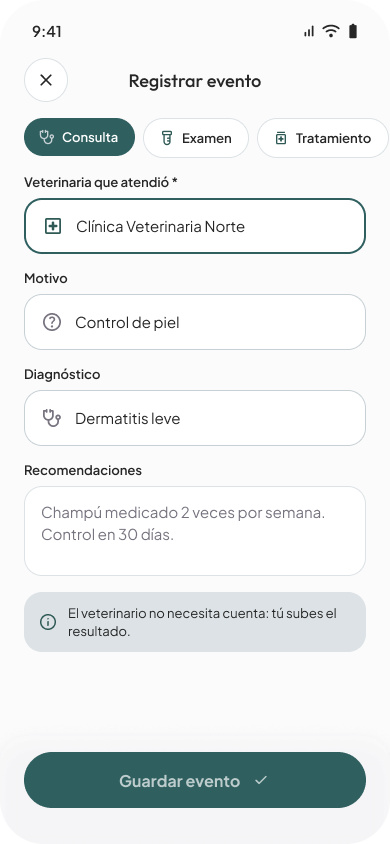
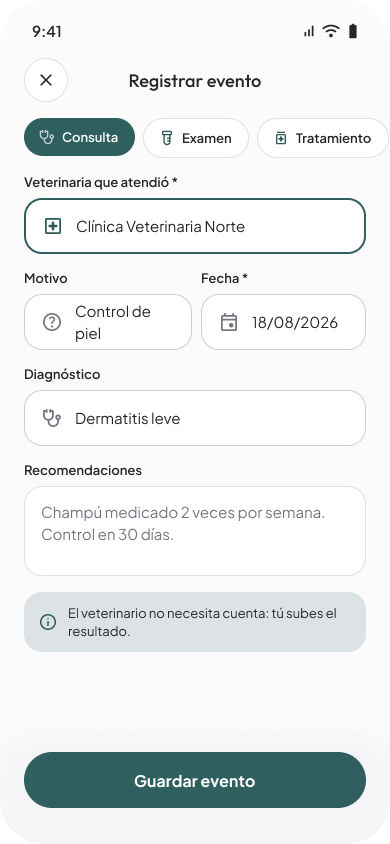
Agrega plantilla y specs de E y A; elimina la suscripción
- specs/_plantilla.md y specs de E · Registrar evento (flujo core) y A · Acceso y cuenta.
- Correcciones de Figma en E2–E7, E9–E11.
- Se elimina la suscripción: borra A11, A18–A21, M4, M10, M11 y M12 y actualiza CLAUDE.md.

diff --git a/specs/E · Registrar evento/spec.md b/specs/E · Registrar evento/spec.md
@@ -1,0 +1,185 @@
+# E · Registrar evento
+
+## Quién y para qué
+
+El dueño de la mascota (Valentina, en la persona de referencia) registra algo que le pasó a su mascota: una vacuna, una desparasitación, una consulta, un examen, un tratamiento, el peso, un cambio de alimentación o de comportamiento, o cualquier otro evento.
+
+Es el flujo core de Balto: cada evento que entra aquí alimenta la línea de tiempo (D), el panel de salud (F), los medicamentos (G), las alertas (J) y lo que se comparte (L). La promesa del producto es que **registrar un evento toma menos de un minuto**, así que el flujo tiene un solo formulario por tipo, pocos campos obligatorios y un soporte opcional.
+
+El veterinario no participa: no necesita cuenta. Es el dueño quien registra el resultado de sus consultas.
+
+## Pantallas
+
+| ID | Nombre | Qué muestra |
+|---|---|---|
+| E1 | Selector de tipo de evento | Foto y nombre de la mascota activa, "¿Qué quieres registrar hoy?" y una cuadrícula de 9 tipos: Vacuna, Desparasitación, Consulta, Examen, Tratamiento, Peso, Alimentación, Comportamiento, Otro. Botón X para cerrar. |
+| E2 | Registrar vacuna | Formulario de vacuna con selector de mascota en el encabezado, chips de tipo, bloque de soporte (Cámara / Galería / PDF) e interruptor "Recordarme el refuerzo". |
+| E3 | Consulta veterinaria | Formulario de consulta y nota "El veterinario no necesita cuenta: tú subes el resultado." |
+| E4 | Examen o laboratorio | Formulario de examen con el soporte cargado (hemograma.pdf). |
+| E5 | Tratamiento o medicación | Formulario de tratamiento, fila "Crear horarios de toma" y área "Foto de la fórmula (opcional)". |
+| E6 | Peso | Campo de peso, fecha de la medición, gráfica "Evolución del peso · 6 meses" y comparación con el mes anterior. |
+| E7 | Alimentación o comportamiento | Selector segmentado Alimentación / Comportamiento, "¿Qué cambió?", fecha y área de foto. |
+| E8 | Adjuntar soporte | Hoja inferior con: Tomar foto (carnet, fórmula o examen), Elegir de la galería, Subir PDF (hasta 10 MB) y Cancelar. |
+| E9 | Evento guardado | Confirmación, texto de dónde quedó el evento, aviso del recordatorio si lo hay, tarjeta del evento y botones "Registrar otro" y "Listo". |
+| E10 | Registrar desparasitación | Formulario de desparasitación, interruptor "Recordarme la próxima dosis" y nota sobre la frecuencia. |
+| E11 | Registrar otro evento | Formulario libre: qué pasó, fecha, lugar, detalle y área de foto. |
+| E12 | Revisar la foto | Vista previa de la foto tomada, con Recortar, Girar, Repetir y los botones "Usar esta foto" / "Tomar otra". |
+| E13 | Archivo muy pesado | Error de archivo de más de 10 MB, con alternativas para adjuntar y la opción "Guardar sin soporte". |
+
+Pantalla reutilizada de otro flujo: **B8 · Salir sin guardar** (diálogo de descarte; ver Estados).
+
+### Campos por tipo
+
+`*` = obligatorio. Las fechas toman el día de hoy por defecto.
+
+| Tipo | Pantalla | Campos | Soporte | Extra |
+|---|---|---|---|---|
+| Vacuna | E2 | Vacuna aplicada *, Fecha aplicada *, Próximo refuerzo | Foto del carnet o PDF | Recordarme el refuerzo |
+| Desparasitación | E10 | Producto *, Fecha *, Vía, Próxima dosis | No lleva | Recordarme la próxima dosis; nota "Interna cada 3 meses, externa cada mes. Confirma con tu veterinario." |
+| Consulta | E3 | Veterinaria que atendió *, Motivo, Fecha *, Diagnóstico, Recomendaciones | Foto o PDF (ajuste pendiente en Figma) | Nota de que el veterinario no necesita cuenta |
+| Examen | E4 | Tipo de examen *, Laboratorio, Fecha *, Resultado principal | Foto o PDF | — |
+| Tratamiento | E5 | Medicamento *, Dosis, Vía, Frecuencia, Duración | Foto de la fórmula (opcional) | Crear horarios de toma (abre G4) |
+| Peso | E6 | Peso (kg) *, Fecha de la medición | No lleva | Gráfica de evolución y comparación con el mes anterior |
+| Alimentación | E7 | ¿Qué cambió? *, Fecha | Foto (opcional) | — |
+| Comportamiento | E7 | ¿Qué cambió? *, Fecha | Foto (opcional) | — |
+| Otro | E11 | ¿Qué pasó? *, Fecha *, Lugar, Detalle | Foto (opcional) | — |
+
+En los tipos que lo aceptan, el soporte siempre es opcional. Por ahora no se aceptan videos.
+
+## Paso a paso
+
+Caso: Valentina registra la vacuna antirrábica que le pusieron a Luna el 12/09/2026, con foto del carnet y recordatorio del refuerzo.
+
+1. **Entrada.** En Inicio, con Luna seleccionada, Valentina toca el botón **+** de la barra de navegación inferior. Se abre **E1** con la foto y el nombre de Luna.
+2. **Tipo.** Toca **Vacuna**. Se abre **E2** con el chip "Vacuna" activo y el selector de mascota mostrando "Luna" en el encabezado.
+3. **Campos.** Escribe "Antirrábica · Nobivac Rabies" en *Vacuna aplicada*, deja *Fecha aplicada* en 12/09/2026 y pone *Próximo refuerzo* en 12/09/2027. Mientras falten campos obligatorios, el botón "Guardar evento" está deshabilitado.
+4. **Soporte.** Toca **Cámara** en el bloque de soporte. Se abre la cámara del dispositivo; si el navegador no tiene permiso, se muestra **O6 · Permiso de cámara**. Las opciones *Galería* y *PDF* del bloque, y cualquier área de soporte de los otros tipos, abren la hoja **E8**, que ofrece las mismas tres opciones.
+5. **Revisión de la foto.** Después de tomar la foto se abre **E12**. Valentina puede recortar, girar o repetir. Toca **Usar esta foto** y vuelve a E2 con la tarjeta "carnet_luna.jpg · Foto · 1,2 MB · Cargado". La X de la tarjeta quita el soporte.
+6. **Recordatorio.** Como hay fecha de *Próximo refuerzo*, el interruptor "Recordarme el refuerzo" está disponible. Lo deja encendido; debajo se lee "7 días antes · 5 sep 2027". La anticipación sale de M3 (ver Qué pasa después).
+7. **Guardar.** Toca **Guardar evento**. Se abre **E9** con:
+   - "La vacuna antirrábica quedó en la línea de tiempo de Luna."
+   - "Te avisaremos 7 días antes del refuerzo (5 sep 2027)."
+   - La tarjeta del evento: Vacuna antirrábica · Refuerzo anual · Vet. Norte · 12 SEP 2026 · 1 soporte.
+8. **Salida.** Toca **Listo** y sale del flujo; si toca **Registrar otro**, vuelve a E1.
+
+### Variantes del paso a paso
+
+- **Cambiar de tipo dentro del formulario.** Los chips de arriba (E2–E6, E10, E11) cambian el formulario sin volver a E1. El chip del tipo actual aparece primero y activo. En E7, el selector segmentado cambia entre Alimentación y Comportamiento.
+- **Tratamiento (E5).** La fila "Crear horarios de toma" abre **G4 · Definir horarios de toma**. Al confirmar, vuelve a E5 con los horarios en la fila (por ejemplo, "08:00 · 20:00").
+- **Peso (E6).** Mientras escribe el peso, el dueño ve la gráfica de los últimos 6 meses (la última barra es la medición nueva) y la diferencia con el mes anterior ("+0,3 kg frente al mes anterior").
+- **Galería.** "Elegir de la galería" en E8 abre la galería del dispositivo; si no hay permiso, se muestra **O7 · Permiso de fotos**.
+- **PDF.** "Subir PDF" en E8 abre el selector de archivos. El archivo queda en el formulario como tarjeta con nombre, tipo y tamaño, igual que en E4.
+
+## Estados
+
+| Estado | Dónde | Qué se ve / qué pasa |
+|---|---|---|
+| Formulario incompleto | E2–E7, E10, E11 | "Guardar evento" deshabilitado hasta que estén todos los campos `*`. |
+| Formulario completo | E2–E7, E10, E11 | "Guardar evento" habilitado. |
+| Soporte cargado | E2, E4 (y los demás tipos con soporte) | Tarjeta con miniatura o ícono, nombre, tipo, tamaño y "Cargado", más una X para quitarlo. |
+| Archivo de más de 10 MB | E13 | "El archivo pesa más de 10 MB", con el nombre y el peso del archivo y el texto "Aceptamos JPG, PNG y PDF de hasta 10 MB." Opciones: *Tomar una foto del documento* (lleva a la cámara y E12), *Elegir otro archivo* (galería o archivos) y *Guardar sin soporte*. La flecha atrás vuelve al formulario. |
+| Recordatorio disponible | E2, E10 | Interruptor activo cuando *Próximo refuerzo* / *Próxima dosis* tiene fecha; muestra "N días antes · fecha del aviso". |
+| Recordatorio no disponible | E2, E10 | Sin fecha de próximo refuerzo o dosis, el interruptor está apagado y no se puede activar. |
+| Avisos apagados en ajustes | E2, E10 | Si "Vacunas y desparasitaciones" está apagado en M3, el interruptor aparece apagado con la nota "Activa los avisos en Ajustes › Notificaciones". *(Falta en Figma.)* |
+| Salir con datos | Formularios | La X abre el diálogo de **B8** con el texto adaptado: "¿Salir sin guardar?" · "Perderás los datos que escribiste de este evento." · [Seguir editando] · [Salir y descartar]. |
+| Salir sin datos | Formularios y E1 | La X cierra sin preguntar y vuelve a la pantalla desde la que se abrió el flujo. |
+| Cancelar adjunto | E8 | "Cancelar" cierra la hoja y vuelve al formulario sin cambios. |
+| Evento guardado | E9 | Confirmación. El aviso del recordatorio solo aparece si se activó. |
+| Sin permiso de cámara o fotos | — | **O6** / **O7** (flujo O). |
+| Sin conexión al guardar | — | **O3 · Guardado pendiente** (flujo O). |
+| Error al guardar | — | **O8 · No se pudo guardar** (flujo O). |
+
+## Qué pasa después
+
+Desde **E9**:
+- **Registrar otro** vuelve a E1, con la misma mascota.
+- **Listo** sale del flujo (destino por definir, ver Preguntas abiertas).
+- La **tarjeta del evento** abre **D4 · Detalle de evento**.
+
+Efectos de guardar un evento en el resto de la app:
+
+| Evento | Dónde aparece |
+|---|---|
+| Todos | **D2 · Línea de tiempo** de la mascota, con su soporte (ver o descargar en D5). También en lo que se comparte desde L. |
+| Vacuna, desparasitación | **F2 · Carnet de vacunas**. En Inicio, el estado de vacunas y el "Próximo a vencer". |
+| Recordatorio activado | Una alerta pendiente en **J1 · Centro de alertas**. El día del aviso (fecha − anticipación de M3) llega la notificación **J6**. |
+| Examen | **F3 · Exámenes y tratamientos**. |
+| Tratamiento | **F3** y tratamiento activo en **G1 · Listado de medicamentos**. Si tiene horarios, genera los recordatorios de toma (**G5**). |
+| Peso | **F4 · Evolución del peso**, el peso de Inicio y la vista rápida (**D1**). |
+| Alimentación, comportamiento | Línea de tiempo (D2). |
+
+La anticipación de los recordatorios no se elige en este flujo: se toma de **M3 · Configurar notificaciones** ("Vacunas y desparasitaciones · 7 días antes").
+
+## Datos que usa
+
+**Lee**
+- **Mascota activa:** id, nombre, foto. Sale del selector de Inicio y de E1, y se puede cambiar en el encabezado de E2.
+- **Pesos anteriores de la mascota:** para la gráfica de E6 y la comparación con el mes anterior.
+- **Preferencias de notificación del dueño (M3):** si los avisos de vacunas y desparasitaciones están encendidos y con cuántos días de anticipación.
+
+**Guarda**
+- **Evento:** id, mascota, tipo (vacuna | desparasitación | consulta | examen | tratamiento | peso | alimentación | comportamiento | otro), fecha, fecha de creación, campos propios del tipo:
+  - vacuna: nombre de la vacuna, fecha del próximo refuerzo
+  - desparasitación: producto, vía, fecha de la próxima dosis
+  - consulta: veterinaria (texto), motivo, diagnóstico, recomendaciones
+  - examen: tipo de examen, laboratorio, resultado principal
+  - tratamiento: medicamento, dosis, vía, frecuencia, duración
+  - peso: valor en kg
+  - alimentación / comportamiento: qué cambió
+  - otro: título, lugar, detalle
+- **Soporte** (0 o más por evento): evento, archivo en almacenamiento (Supabase Storage), nombre, tipo (JPG | PNG | PDF), tamaño (≤ 10 MB).
+- **Recordatorio / alerta** (si se activó): mascota, evento de origen, tipo, fecha de vencimiento, fecha del aviso, estado (pendiente). Lo consume J.
+- **Tratamiento activo** (si el tipo es tratamiento): medicamento, dosis, vía, frecuencia, duración, horarios de toma (de G4), estado (activo). Lo consume G.
+
+## Fuera de alcance
+
+Estos temas tienen su propia spec:
+- Ver, buscar, editar y eliminar eventos: **D · Consultar datos**. Lo que hace D6 · Editar evento con estos formularios se define allí.
+- Carga inicial y lectura automática de documentos (carnet, exámenes, fórmulas, chats): **C**. E no lee los documentos: solo los adjunta.
+- Panel de salud, carnet, exámenes y evolución del peso: **F**.
+- Horarios de toma, recordatorios de toma, tomas omitidas y finalizar tratamiento: **G**.
+- Alertas, posponer, resolver y notificaciones: **J**.
+- Alimentos tóxicos y plan de alimentación: **H**. Bitácora de hábitos: **I**.
+- Sin conexión, guardado pendiente, errores y permisos: **O**.
+- Videos como soporte.
+
+## Preguntas abiertas
+
+1. **Cambiar de tipo con datos escritos.** Si el dueño llenó campos y toca otro chip, ¿se pierde lo escrito, se conserva lo común (fecha, soporte) o se pide confirmación?
+2. **Destino de "Listo" en E9.** ¿Vuelve a Inicio o a la pantalla desde la que se abrió el flujo (por ejemplo, la línea de tiempo)?
+3. **Selector de mascota en los formularios.** Solo E2 muestra "Luna ▾" en el encabezado. ¿Todos los formularios permiten cambiar la mascota, o la mascota se fija en E1?
+4. **E12 desde la galería.** ¿Las fotos elegidas de la galería también pasan por "Revisar la foto", o solo las que se toman con la cámara? El botón "Tomar otra" sugiere que solo se usa con la cámara.
+5. **"Guardar sin soporte" en E13.** ¿Guarda el evento de una vez (y va a E9) o vuelve al formulario sin adjunto? ¿Qué pasa si faltan campos obligatorios?
+6. **Formatos de foto del teléfono.** Algunos teléfonos guardan las fotos en HEIC. ¿Se convierten a JPG o se rechazan? Si se rechazan, ¿con qué pantalla?
+7. **Varios soportes por evento.** Los diseños muestran uno. ¿Se puede adjuntar más de uno (por ejemplo, las dos caras del carnet)?
+8. **Veterinaria en E3.** ¿Es texto libre o se elige de los proveedores de K? La tarjeta de E9 muestra "Vet. Norte" en un evento de vacuna, pero E2 no tiene campo de veterinaria.
+9. **Subtítulo "Refuerzo anual" en E9.** ¿De dónde sale? E2 no tiene un campo de frecuencia del refuerzo.
+10. **Estado visual del botón deshabilitado.** Figma muestra solo el botón habilitado; el kit todavía no tiene la variante deshabilitada (pregunta 15 de `CLAUDE.md`).
+11. **Estado de subida.** No hay diseño para un soporte que está subiendo ni para un error de subida que no sea por peso.
+
+## Cambios
+
+**2026-10-27 · Primera versión** (sesión LD5 · Sesión 2)
+
+Corregido en Figma durante la escritura de la spec:
+- E9: el botón izquierdo dice "Registrar otro" (antes estaba vacío) y "Listo" pasa a secundario.
+- E7, E10, E11: X para cerrar, botón "Guardar evento" y campos obligatorios marcados (E7 "¿Qué cambió?", E10 Producto y Fecha, E11 "¿Qué pasó?").
+- E3: se agregó "Fecha *".
+- E2–E6: el botón "Guardar evento" se ve habilitado cuando los obligatorios están llenos.
+
+Decisión de producto que afecta este flujo: **se elimina la suscripción** (y con ella el modo consulta). Registrar eventos no depende de ningún pago.
+
+Decidido, pendiente de ajustar en Figma:
+- E3: agregar el bloque de soporte (Cámara / Galería / PDF), como en E2.
+- E7, E11: cambiar "Foto o video (opcional)" por "Foto (opcional)". Por ahora no hay video.
+- E11: marcar "Fecha" como obligatoria (`*`).
+- E4: diseñar el estado sin soporte, con el área que abre E8.
+- E2, E10: estado del interruptor cuando los avisos están apagados en M3.
+- B8: variante de texto para eventos ("Perderás los datos que escribiste de este evento.").
+
+Decisiones tomadas:
+- La entrada al flujo es el botón **+** de la barra de navegación inferior, que abre E1 con la mascota activa.
+- La X con datos escritos reutiliza el diálogo de B8.
+- Toda área de soporte abre E8. E6 y E10 no llevan soporte.
+- E5 abre G4 para los horarios, y el tratamiento guardado queda activo en G1.
+- Los recordatorios de E2 y E10 usan la anticipación de M3 y crean una alerta en J1.

diff --git a/specs/A · Acceso y cuenta/spec.md b/specs/A · Acceso y cuenta/spec.md
@@ -1,0 +1,139 @@
+# A · Acceso y cuenta
+
+## Quién y para qué
+
+Es el flujo por el que entra el dueño de la mascota: la primera vez que abre Balto (bienvenida y registro) y cada vez que vuelve sin sesión (inicio de sesión y recuperación de contraseña).
+
+Importa porque es la primera impresión del producto. El registro tiene que ser corto (3 pasos) y llevar al dueño cuanto antes a crear su mascota, que es donde empieza el valor. Balto no cobra por usarse: no hay suscripción, prueba gratis ni modo consulta.
+
+## Pantallas
+
+| ID | Nombre | Qué muestra |
+|---|---|---|
+| A1 | Splash | Logo de Balto sobre fondo verde mientras carga la app. |
+| A2 | Bienvenida | Carrusel 1 de 3: "Su historia, sin papeles". Botones "Ya tengo cuenta" y "Crear cuenta gratis". |
+| A2.2 | Bienvenida | Carrusel 2 de 3: "Cada dosis a tiempo". Mismos botones. |
+| A2.3 | Bienvenida | Carrusel 3 de 3: "Su veterinario, al tanto". Mismos botones. |
+| A3 | Crear cuenta | Paso 1 de 3 · Tu cuenta: correo, contraseña, confirmar contraseña y "Acepto los términos y la política de datos". Botones "Ya tengo cuenta" y "Continuar". |
+| A4 | Verificar correo | Paso 2 de 3 · Verificación: "Revisa tu correo", 6 casillas para el código, "Reenviar código en 0:45" y botón "Verificar". |
+| A5 | Datos del dueño | Paso 3 de 3 · Datos del dueño: nombre completo, ciudad, teléfono de contacto y la nota "Tu teléfono aparece en la vista rápida de tu mascota por si alguien la encuentra." Botón "Confirmar". |
+| A6 | Inicio de sesión | "Bienvenido de nuevo": correo, contraseña con botón para mostrarla, "¿Olvidaste tu contraseña?" y botón "Iniciar sesión". |
+| A7 | Error de credenciales | A6 con los dos campos en error: "El correo o la contraseña no coinciden" y "Revisa tu contraseña e inténtalo de nuevo". |
+| A8 | Recuperar contraseña | "¿Olvidaste tu contraseña?": campo de correo, nota "Si el correo está registrado, el enlace llega en unos minutos." y botón "Enviar enlace". |
+| A9 | Crear contraseña nueva | Nueva contraseña, confirmación y lista de reglas: 8+ caracteres, mayúscula y número. Botón "Guardar contraseña". |
+| A12 | Código incorrecto | "El código no coincide", casillas en error, "Te quedan 2 intentos antes de bloquear el código.", "Reenviar código" y "Volver a intentar". |
+| A13 | Código vencido | "El código venció. Los códigos duran 10 minutos." Botones "Enviar código nuevo" y "Cambiar de correo". |
+| A14 | Enlace enviado | "Revisa tu correo", "El enlace vence en 30 minutos.", "No me llegó el correo" y botones "Ya tengo el enlace" / "Iniciar sesión". |
+| A15 | Contraseña actualizada | Confirmación, "Si no fuiste tú, escríbenos desde Ayuda." y botón "Iniciar sesión". |
+| A16 | Enlace vencido | "Este enlace ya venció. Por seguridad los enlaces duran 30 minutos." Botones "Pedir enlace nuevo" e "iniciar sesión". |
+
+## Paso a paso
+
+Caso: Samuel abre Balto por primera vez y crea su cuenta con samuel@correo.com.
+
+1. **Splash (A1).** Mientras carga, Balto revisa si hay una sesión guardada. Como no la hay, pasa a A2.
+2. **Bienvenida (A2 → A2.2 → A2.3).** Samuel desliza las tres tarjetas; los puntos indican en cuál va. Puede tocar "Crear cuenta gratis" desde cualquiera de las tres.
+3. **Crear cuenta (A3).** Escribe su correo y dos veces la contraseña, y marca los términos. Debajo de la contraseña ve las mismas reglas que en A9 (8+ caracteres, mayúscula, número), que se marcan a medida que escribe. "Continuar" se habilita cuando todo es válido y las dos contraseñas coinciden.
+4. **Verificar correo (A4).** Balto envía un código de 6 dígitos a samuel@correo.com. Samuel lo escribe; cada dígito pasa a la siguiente casilla, y pegar el código completo llena las 6. "Reenviar código" se activa al terminar la cuenta regresiva de 60 segundos. Toca "Verificar".
+5. **Datos del dueño (A5).** Escribe "Samuel Parada", "Bogotá" y "+57 300 000 0000". Toca "Confirmar".
+6. **Primera mascota.** Balto lo lleva directo a **B1 · Datos básicos** para crear su primera mascota (flujo B).
+
+### Variantes del paso a paso
+
+**Volver a entrar (con cuenta)**
+1. A1, sin sesión → A2. Samuel toca **"Ya tengo cuenta"** → A6.
+2. Escribe su correo y contraseña → "Iniciar sesión".
+3. Si son correctos, va a **Inicio**. Si no tiene mascotas, va a **O1 · Sin mascotas registradas**.
+4. Si fallan, ve **A7**. Al editar cualquier campo, los errores desaparecen.
+
+**Recuperar la contraseña**
+1. En A6 o A7, toca "¿Olvidaste tu contraseña?" → **A8**, con el correo ya escrito si lo había llenado en A6.
+2. Toca "Enviar enlace" → **A14**. Por seguridad, A14 se muestra aunque el correo no esté registrado.
+3. "No me llegó el correo" reenvía el enlace (máximo uno por minuto). "Iniciar sesión" vuelve a A6.
+4. Samuel abre el correo y toca el enlace. Se abre Balto en **A9**.
+5. Escribe la nueva contraseña; las reglas se marcan a medida que escribe. "Guardar contraseña" se habilita cuando se cumplen las 3 reglas y las dos contraseñas coinciden.
+6. → **A15**. "Iniciar sesión" lleva a A6.
+7. Si el enlace tenía más de 30 minutos o ya se había usado, se abre **A16**. "Pedir enlace nuevo" lleva a A8 y "Iniciar sesión", a A6.
+
+**Sesión ya iniciada**
+- A1 con una sesión válida → **Inicio** (o O1 si no hay mascotas). No pasa por A2.
+
+## Estados
+
+| Estado | Dónde | Qué se ve / qué pasa |
+|---|---|---|
+| Formulario incompleto o inválido | A3, A5, A6, A8, A9 | El botón principal está deshabilitado. |
+| Contraseñas no coinciden | A3, A9 | Error bajo "Confirmar contraseña": "Las contraseñas no coinciden". *(Falta en Figma.)* |
+| Correo con formato inválido | A3, A6, A8 | Error bajo el campo: "Revisa el correo". *(Falta en Figma.)* |
+| Correo ya registrado | A3 | Error bajo el correo: "Este correo ya tiene cuenta." con el enlace "Inicia sesión" → A6. *(Falta en Figma.)* |
+| Contador de reenvío | A4 | "Reenviar código en 0:45", inactivo. A los 0 segundos pasa a "Reenviar código", activo. |
+| Código incorrecto | A12 | Casillas en rojo, intentos restantes y "Volver a intentar", que limpia las casillas. Hay 3 intentos por código. |
+| Código bloqueado | A13 (variante) | Al tercer intento fallido el código se anula y se muestra A13 con el título "Bloqueamos este código" y "Enviar código nuevo". *(Variante de texto pendiente en Figma.)* |
+| Código vencido | A13 | Han pasado más de 10 minutos. "Enviar código nuevo" reenvía y vuelve a A4; "Cambiar de correo" vuelve a A3 con el correo editable. |
+| Credenciales incorrectas | A7 | Los dos campos en error, con el mismo mensaje, sin decir cuál falló. |
+| Cuenta sin verificar | A6 | Si el correo existe pero no se verificó, "Iniciar sesión" envía un código nuevo y lleva a A4. |
+| Enlace enviado | A14 | Se muestra siempre, exista o no el correo. |
+| Enlace vencido o ya usado | A16 | Pedir uno nuevo o iniciar sesión. |
+| Contraseña actualizada | A15 | Se cierran las otras sesiones abiertas de esa cuenta. |
+| Sin conexión | — | **O2 · Sin conexión** (flujo O). |
+| Sesión expirada | — | **O4 · Sesión expirada** lleva a A6 (flujo O). |
+
+## Qué pasa después
+
+- **Registro completo (A5)** → **B1 · Datos básicos** (flujo B) para crear la primera mascota. Si el dueño sale de B sin terminar, la próxima vez entra a **O1**.
+- **Inicio de sesión correcto (A6)** → **Inicio**, con la última mascota activa, u **O1** si no tiene mascotas.
+- **Datos del dueño (A5)**: el teléfono se muestra en **D1 · Vista de acceso rápido** y en **L5 · Vista pública del perfil**. El nombre y el correo aparecen en **M1 · Ajustes** y se editan en **M2**.
+- **"Si no fuiste tú, escríbenos desde Ayuda" (A15)** remite a **M8 · Ayuda**.
+
+## Datos que usa
+
+**Guarda**
+- **Usuario (Supabase Auth):** correo, contraseña (la guarda Supabase, no Balto), fecha de verificación del correo y fecha de creación.
+- **Dueño (perfil):** id del usuario, nombre completo, ciudad, teléfono de contacto, fecha de aceptación de términos y versión de los términos aceptados.
+- **Códigos de verificación y enlaces de recuperación:** los gestiona Supabase Auth (código de 6 dígitos válido 10 minutos; enlace válido 30 minutos y de un solo uso). Balto lleva la cuenta de intentos fallidos por código (máximo 3).
+
+**Lee**
+- **Sesión activa:** decide qué se muestra después de A1.
+- **Mascotas del dueño:** decide si después de iniciar sesión va a Inicio o a O1.
+
+**Reglas de validación**
+- Correo: formato válido y único.
+- Contraseña: al menos 8 caracteres, una mayúscula y un número.
+- Nombre completo, ciudad y teléfono son obligatorios en A5. El teléfono va con indicativo (+57 por defecto).
+
+## Fuera de alcance
+
+- Crear la mascota: **B · Perfil de mascota**.
+- Editar los datos del dueño, cerrar sesión, eliminar la cuenta y confirmar identidad: **M** (M2, M7, M15, M16, M17).
+- Sin conexión y sesión expirada: **O** (O2, O4).
+- Inicio de sesión con Google, Apple u otros proveedores.
+- Suscripción, prueba gratis, pagos y modo consulta: **eliminados del producto** (27 oct 2026).
+
+## Preguntas abiertas
+
+1. **Términos y política de datos.** A3 pide aceptarlos, pero el documento no existe en el repo. ¿Quién lo redacta y dónde se publica? La Ley 1581 de 2012 de protección de datos aplica porque se guardan datos personales del dueño.
+2. **Modelo de ingreso.** Sin suscripción, el botón "Crear cuenta gratis" de A2 sigue siendo cierto. Falta actualizar `docs/Brief.md` con el nuevo modelo de ingreso (pregunta 7 de `CLAUDE.md`).
+3. **Ciudad.** ¿Es texto libre o una lista? Hoy el producto es solo para Bogotá, y K (veterinarias cercanas) y N (entregas) dependen de la ubicación.
+
+## Cambios
+
+**2026-10-27 · Primera versión** (sesión LD5 · Sesión 2)
+
+Decisión de producto:
+- **Se elimina la suscripción.** Se borraron A11 · Modo consulta, A18 · Datos de la tarjeta, A19 · Pago con PSE, A20 · Pago aprobado y A21 · Pago rechazado (y M4, M10, M11, M12 del flujo M). Ya no existen A10 · Activar suscripción ni A17 · Prueba gratis activada.
+
+Decisiones tomadas:
+- Después de A5 el dueño va directo a B1 para crear su primera mascota (O1 queda para quien no termina B).
+- A3 usa las mismas reglas de contraseña que A9 y muestra la misma lista de verificación.
+- 3 intentos por código. Al tercer error, el código se anula y se muestra A13 con texto de bloqueo.
+- "Reenviar código" se activa a los 60 segundos.
+- A14 se muestra exista o no el correo, para no revelar qué correos están registrados.
+- Cambiar la contraseña cierra las demás sesiones.
+
+Pendiente de ajustar en Figma:
+- A6: el botón secundario "Ya tengo cuenta" pasa a decir "Crear cuenta" y lleva a A3 (pregunta 16 de `CLAUDE.md`).
+- A7: usar el mismo encabezado de A6 (hoy tiene flecha atrás y título "Iniciar sesión"), porque es el mismo formulario en error.
+- A14: quitar el botón "Ya tengo el enlace" (en la web, el enlace del correo abre A9) y dejar "Iniciar sesión" como botón principal.
+- A16: corregir la mayúscula de "iniciar sesión".
+- A3: agregar la lista de reglas de contraseña y los estados de error (formato, correo ya registrado, contraseñas distintas).
+- A13: variante de texto para el código bloqueado.

diff --git a/CLAUDE.md b/CLAUDE.md
@@ -38,7 +38,7 @@
 
 Carpetas de `design/flujos/`. Los IDs de pantalla son los de los nombres de archivo.
 
-- **A · Acceso y cuenta** (`A · Acceso y cuenta/`, 21 pantallas): A1 · Splash, A2 · Bienvenida, A2.2 · Bienvenida, A2.3 · Bienvenida, A3 · Crear cuenta, A4 · Verificar correo, A5 · Datos del dueño, A6 · Inicio de sesión, A7 · Error de credenciales, A8 · Recuperar contraseña, A9 · Crear contraseña nueva, A11 · Modo consulta, A12 · Código incorrecto, A13 · Código vencido, A14 · Enlace enviado, A15 · Contraseña actualizada, A16 · Enlace vencido, A18 · Datos de la tarjeta, A19 · Pago con PSE, A20 · Pago aprobado, A21 · Pago rechazado.
+- **A · Acceso y cuenta** (`A · Acceso y cuenta/`, 16 pantallas): A1 · Splash, A2 · Bienvenida, A2.2 · Bienvenida, A2.3 · Bienvenida, A3 · Crear cuenta, A4 · Verificar correo, A5 · Datos del dueño, A6 · Inicio de sesión, A7 · Error de credenciales, A8 · Recuperar contraseña, A9 · Crear contraseña nueva, A12 · Código incorrecto, A13 · Código vencido, A14 · Enlace enviado, A15 · Contraseña actualizada, A16 · Enlace vencido.
 - **B · Perfil de mascota** (`B · Perfil de mascota/`, 6): B1 · Datos básicos, B2 · Foto de la mascota, B4 · Salud inicial, B5 · Perfil creado, B6 · Cédula de Luna, B8 · Salir sin guardar.
 - **C · Carga inicial de datos (obligatoria)** (`C · Carga inicial de datos (obligatoria)/`, 13): C1 · Asistente de carga inicial, C2 · Subir carnet de vacunación, C3 · Subir examen o laboratorio, C4 · Subir fórmula o tratamiento, C5 · Transcribir historial de chats, C6 · Sin historial previo, C7 · Resumen de carga inicial, C8 · Revisar vacunas detectadas, C9 · Revisar examen detectado, C10 · Revisar fórmula detectada, C11 · Revisar eventos del historial, C12 · Leyendo el documento, C13 · No pudimos leer el archivo.
 - **D · Consultar datos** (`D · Consultar datos/`, 10): D1 · Vista de acceso rápido, D2 · Línea de tiempo, D3 · Filtros de la línea de tiempo, D4 · Detalle de evento, D5 · Ver o descargar soporte, D6 · Editar evento, D7 · Eliminar evento, D8 · Línea de tiempo vacía, D9 · Resultados de búsqueda, D10 · Búsqueda sin resultados.
@@ -51,7 +51,7 @@ Carpetas de `design/flujos/`. Los IDs de pantalla son los de los nombres de arch
 - **J · Alertas** (`J · Alertas/`, 7): J1 · Centro de alertas, J2 · Detalle de alerta, J3 · Posponer aviso, J4 · Alerta vencida, J5 · Alerta resuelta, J6 · Aviso de vacuna, J7 · Sin alertas pendientes.
 - **K · Veterinarias y proveedores** (`K · Veterinarias y proveedores/`, 11): K1 · Buscador · permiso de ubicación, K2 · Filtros de proveedores, K3 · Listado de proveedores, K4 · Ficha del proveedor, K5 · Agendar cita, K6 · Calendario unificado, K7 · Ubicación denegada, K8 · Sin veterinarias cercanas, K9 · Cita agendada, K10 · Sin horarios disponibles, K11 · Detalle de la cita.
 - **L · Compartir perfil** (`L · Compartir perfil/`, 7): L1 · Selector de contenido, L2 · Vista previa del PDF, L3 · Reporte enviado, L4 · Enlace para compartir, L5 · Vista pública del perfil, L6 · Enlace expirado, L7 · Enviado por correo.
-- **M · Cuenta y ajustes** (`M · Cuenta y ajustes/`, 17): M1 · Ajustes, M2 · Editar datos del dueño, M3 · Configurar notificaciones, M4 · Gestionar suscripción, M5 · Administrar mascotas, M6 · Exportar mis datos, M7 · Eliminar cuenta, M8 · Ayuda, M9 · Notificaciones, M10 · Historial de pagos, M11 · Cancelar suscripción, M12 · Suscripción cancelada, M13 · Archivar mascota, M14 · Exportación lista, M15 · Confirmar identidad, M16 · Cuenta eliminada, M17 · Cerrar sesión.
+- **M · Cuenta y ajustes** (`M · Cuenta y ajustes/`, 13): M1 · Ajustes, M2 · Editar datos del dueño, M3 · Configurar notificaciones, M5 · Administrar mascotas, M6 · Exportar mis datos, M7 · Eliminar cuenta, M8 · Ayuda, M9 · Notificaciones, M13 · Archivar mascota, M14 · Exportación lista, M15 · Confirmar identidad, M16 · Cuenta eliminada, M17 · Cerrar sesión.
 - **N · Tienda — alimento y vacunas (nuevo)** (`N · Tienda — alimento y vacunas (nuevo)/`, 15): N1 · Tienda, N2 · Alimentos, N3 · Detalle de alimento, N4 · Vacunas, N5 · Detalle de vacuna y aplicación, N6 · Carrito, N7 · Entrega y pago, N8 · Pedido confirmado, N9 · Mis pedidos y seguimiento, N10 · Carrito vacío, N11 · Búsqueda sin resultados, N12 · Dirección de entrega, N13 · Agregar método de pago, N14 · Pago rechazado, N15 · Detalle del pedido.
 - **O · Estados transversales** (`O · Estados transversales/`, 9): O1 · Sin mascotas registradas, O2 · Sin conexión, O3 · Guardado pendiente, O4 · Sesión expirada, O5 · Permiso de notificaciones, O6 · Permiso de cámara, O7 · Permiso de fotos, O8 · No se pudo guardar, O9 · Algo salió mal.
 
@@ -75,15 +75,15 @@ Puntos que no se pueden resolver con lo que hay en el repo. Hay que resolverlos 
 
 **Alcance y producto**
 
-Ya resuelto: los flujos de `design/flujos/` son la versión final de la aplicación y `docs/Brief.md` (v5) está alineado con ellos, incluidas la cédula animal Balto, el enlace con vencimiento, la lectura de documentos y la Tienda. La aplicación es web móvil.
+Ya resuelto: los flujos de `design/flujos/` son la versión final de la aplicación y `docs/Brief.md` (v5) está alineado con ellos, incluidas la cédula animal Balto, el enlace con vencimiento, la lectura de documentos y la Tienda. La aplicación es web móvil. **No hay suscripción** (decisión del 27 oct 2026): se eliminaron A11 · Modo consulta, A18–A21 (pago de la suscripción), M4, M10, M11 y M12. Usar la app no depende de ningún pago.
 
 1. **Orden de construcción.** Todos los flujos (A a O) están en alcance. ¿En qué orden se construyen?
-2. **Pantallas que ya no están.** El commit anterior tenía A10 · Activar suscripción, A17 · Prueba gratis activada, B3 · Identificador, B7 · Placa grabada y B9 · Identificador duplicado. La exportación actual (sin commit todavía) no las trae. ¿Se eliminaron a propósito? Si es así, ¿dónde activa el dueño la prueba gratis, dónde escribe el número de microchip y qué pasa al pedir la placa grabada desde B6?
+2. **Pantallas que ya no están.** El commit anterior tenía B3 · Identificador, B7 · Placa grabada y B9 · Identificador duplicado. La exportación actual no las trae. ¿Se eliminaron a propósito? Si es así, ¿dónde escribe el dueño el número de microchip y qué pasa al pedir la placa grabada desde B6? (A10 y A17 eran de la suscripción, que ya no existe.)
 3. **Placa grabada.** B6 ofrece pedirla. ¿Se vende por la Tienda, tiene costo, quién la fabrica y cómo se entrega?
 4. **Servicio de lectura de documentos.** C8–C12 y G7 leen el carnet, los exámenes y las fórmulas. ¿Con qué servicio? No está en el stack.
 5. **Tienda.** ¿Con qué proveedores de alimento y veterinarias aliadas se trabaja, y de dónde salen el catálogo, los precios y el seguimiento de pedidos?
 6. **Borrado y permanencia.** D7 borra un evento "sin vuelta atrás" y M16 habla de 30 días para recuperar la cuenta, pero el brief promete que "nada que se registre se pierde". ¿El borrado es definitivo o reversible? ¿Cuál es la política de retención?
-7. **Suscripción.** ¿Cuánto cuesta (las pantallas dicen $ 00.000)? ¿Cuánto dura la prueba gratis? ¿Qué pasarela procesa los pagos con tarjeta y PSE (A18–A21, N7, N13)? No está en el stack.
+7. **Modelo de ingreso y pagos de la Tienda.** Sin suscripción, ¿el ingreso sale solo de la Tienda? `docs/Brief.md` todavía describe la suscripción y hay que actualizarlo. ¿Qué pasarela procesa los pagos con tarjeta y PSE de la Tienda (N7, N13, N14)? No está en el stack.
 8. **Nombre visible.** Las notificaciones G5 y H5 y el componente Notificación push dicen "MASCOTAS"; J6 dice "BALTO". ¿El nombre es Balto en todas partes?
 
 **Plataforma**

diff --git a/specs/_plantilla.md b/specs/_plantilla.md
@@ -1,0 +1,11 @@
+# [Nombre del flujo]
+
+## Quién y para qué
+## Pantallas
+## Paso a paso
+## Estados
+## Qué pasa después
+## Datos que usa
+## Fuera de alcance
+## Preguntas abiertas
+## Cambios
